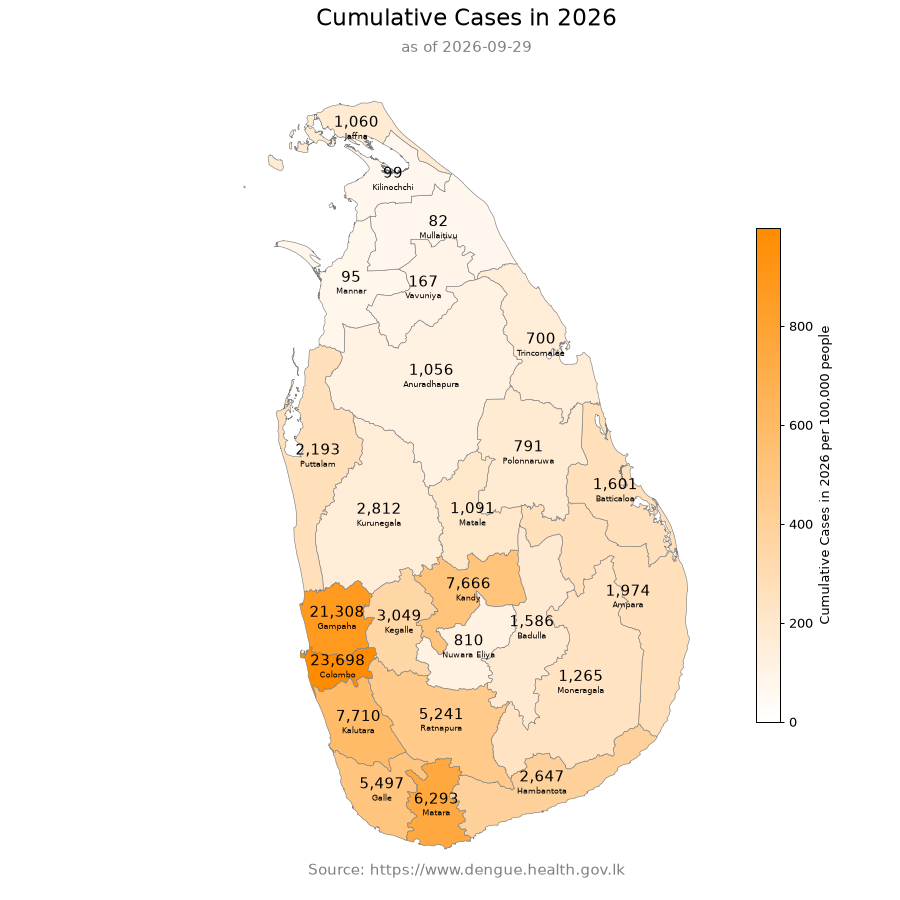
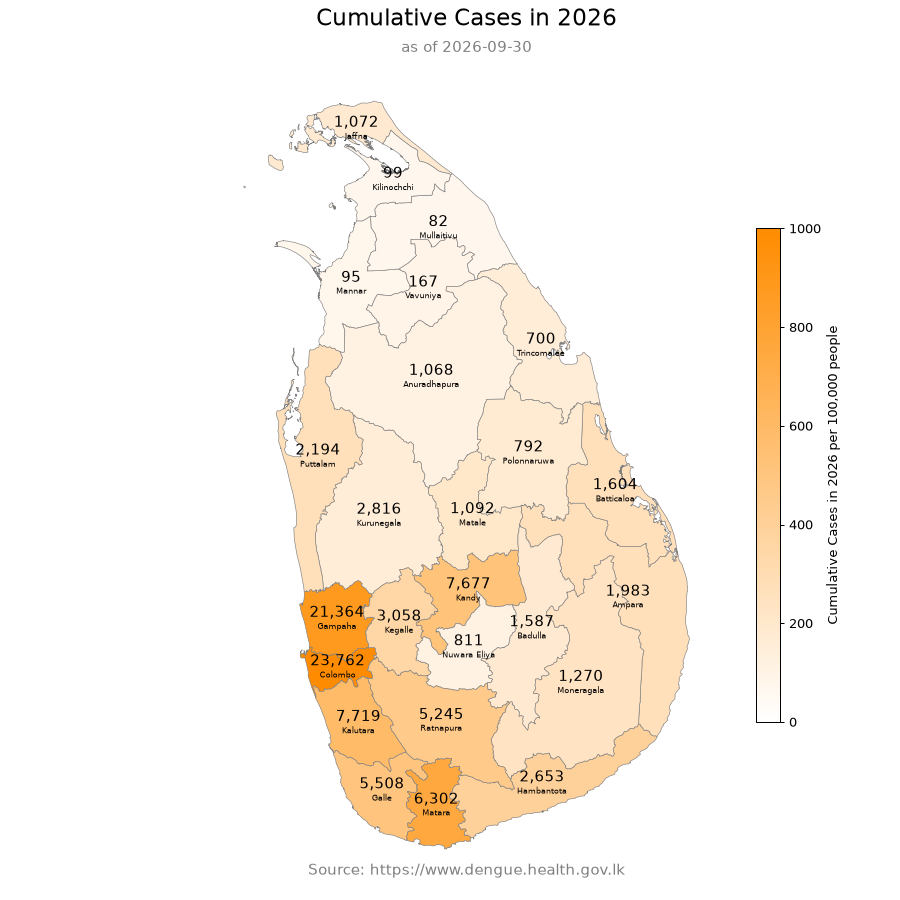
🤖 [pipeline.yml] 2026-10-01-0447

diff --git a/README.md b/README.md
@@ -139,6 +139,7 @@ As of 2026-09-13
 
 ### [National Dengue Control Unit - Daily Update](data/NDCUDaily)
 
+- [2026-09-30](data/NDCUDaily/2026/2026-09/2026-09-30)
 - [2026-09-29](data/NDCUDaily/2026/2026-09/2026-09-29)
 - [2026-09-28](data/NDCUDaily/2026/2026-09/2026-09-28)
 - [2026-09-27](data/NDCUDaily/2026/2026-09/2026-09-27)
